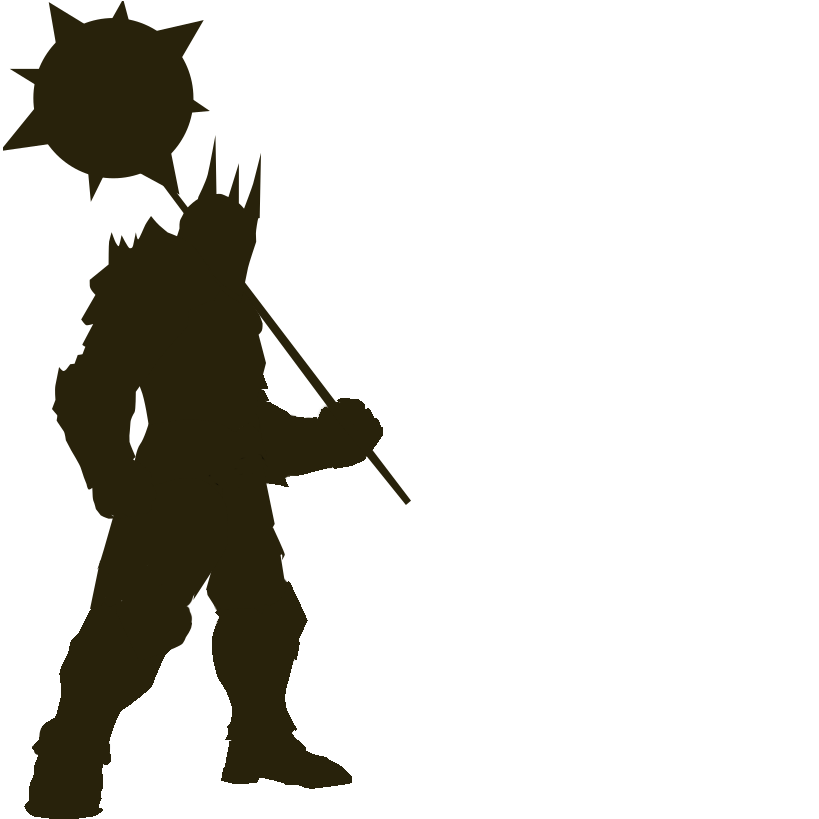
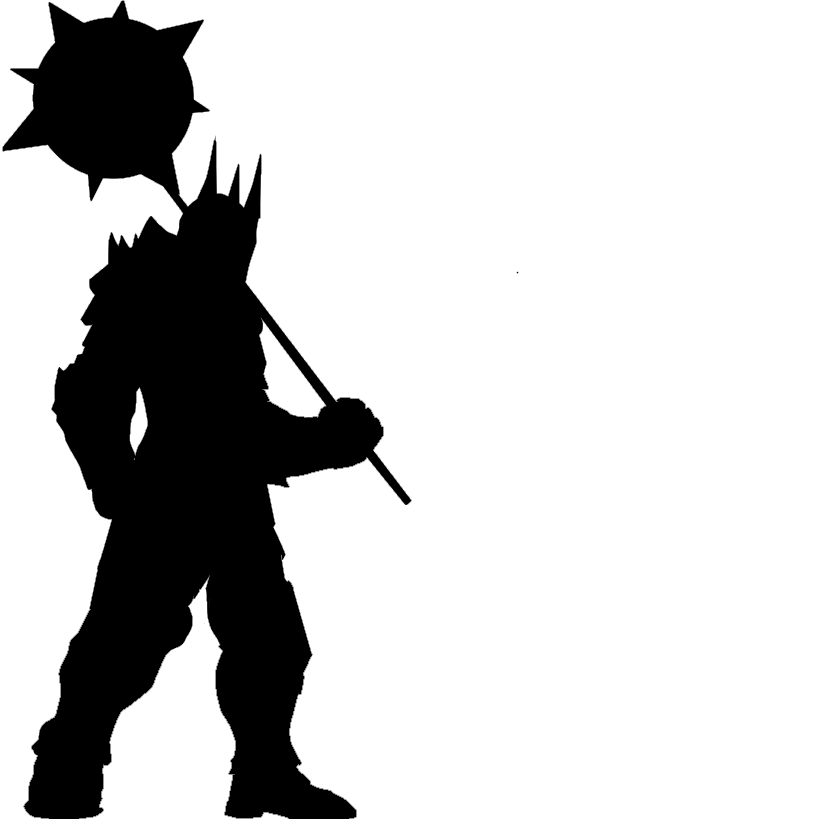
minimal changes

Changed region(s): [[0.0, 0.0, 0.5189, 1.0]]

diff --git a/modules/player.py b/modules/player.py
@@ -15,7 +15,7 @@ class Player(Fighter):
         "Upward swing": {"damage": 55, "cooldown": 160, "symbol": "3"},
         "Side head strike": {"damage": 50, "cooldown": 140, "symbol": "4"},
         "Direct Punch": {"damage": 3, "cooldown": 14, "symbol": "5"},
-        "Ultimate": {"damage": 40, "cooldown": 300, "symbol": "6"},
+        "Ultimate": {"damage": 70, "cooldown": 300, "symbol": "6"},
     }
     
     def __init__(self, x, color=(50, 100, 255), health=100, strength=12):
@@ -52,6 +52,7 @@ class Player(Fighter):
         self.facing = -1
         self.ultimate_charge = 20
         self.resist = False
+        self.damage_freeze_timer = 0  # Prevents damage for 20 ticks after enemy dies
 
         
     def draw(self, screen):
@@ -157,6 +158,10 @@ class Player(Fighter):
     
     def take_damage(self, damage, can_block=True):
         """Take damage with resistance and block chance"""
+        # Check if damage is frozen (after enemy dies)
+        if self.damage_freeze_timer > 0:
+            return self.health
+        
         if self.block_active and can_block:
             damage = int(damage * 0.3)
         elif self.resist:
@@ -175,3 +180,5 @@ class Player(Fighter):
                 self.damage_dealt = True
         if self.block_cooldown > 0:
             self.block_cooldown -= 1
+        if self.damage_freeze_timer > 0:
+            self.damage_freeze_timer -= 1

diff --git a/main.py b/main.py
@@ -41,6 +41,8 @@ active_background = ["src/old_forest.png", "src/swapped_hills.png", "src/wished_
 ult_ui = pygame.image.load("src/ult_ui.png").convert_alpha()
 ult_ui = pygame.transform.scale(ult_ui, (170, 170))
 
+
+
 try:
     background_img = pygame.image.load(active_background[0]).convert()
     background_img = pygame.transform.scale(background_img, (WIDTH, HEIGHT))
@@ -103,7 +105,6 @@ def fight_loop(player, enemy, fight_number):
         clock.tick(60)
         keys = pygame.key.get_pressed()
         
-        update_music(fight_number, MAX_FIGHTS)
 
         for event in pygame.event.get():
             if event.type == pygame.QUIT:
@@ -306,6 +307,7 @@ def fight_loop(player, enemy, fight_number):
         pygame.display.update()
 
         if enemy.health <= 0:
+            player.damage_freeze_timer = 20  # Freeze damage for 20 ticks after enemy dies
             return True
         if player.health <= 0:
             return False